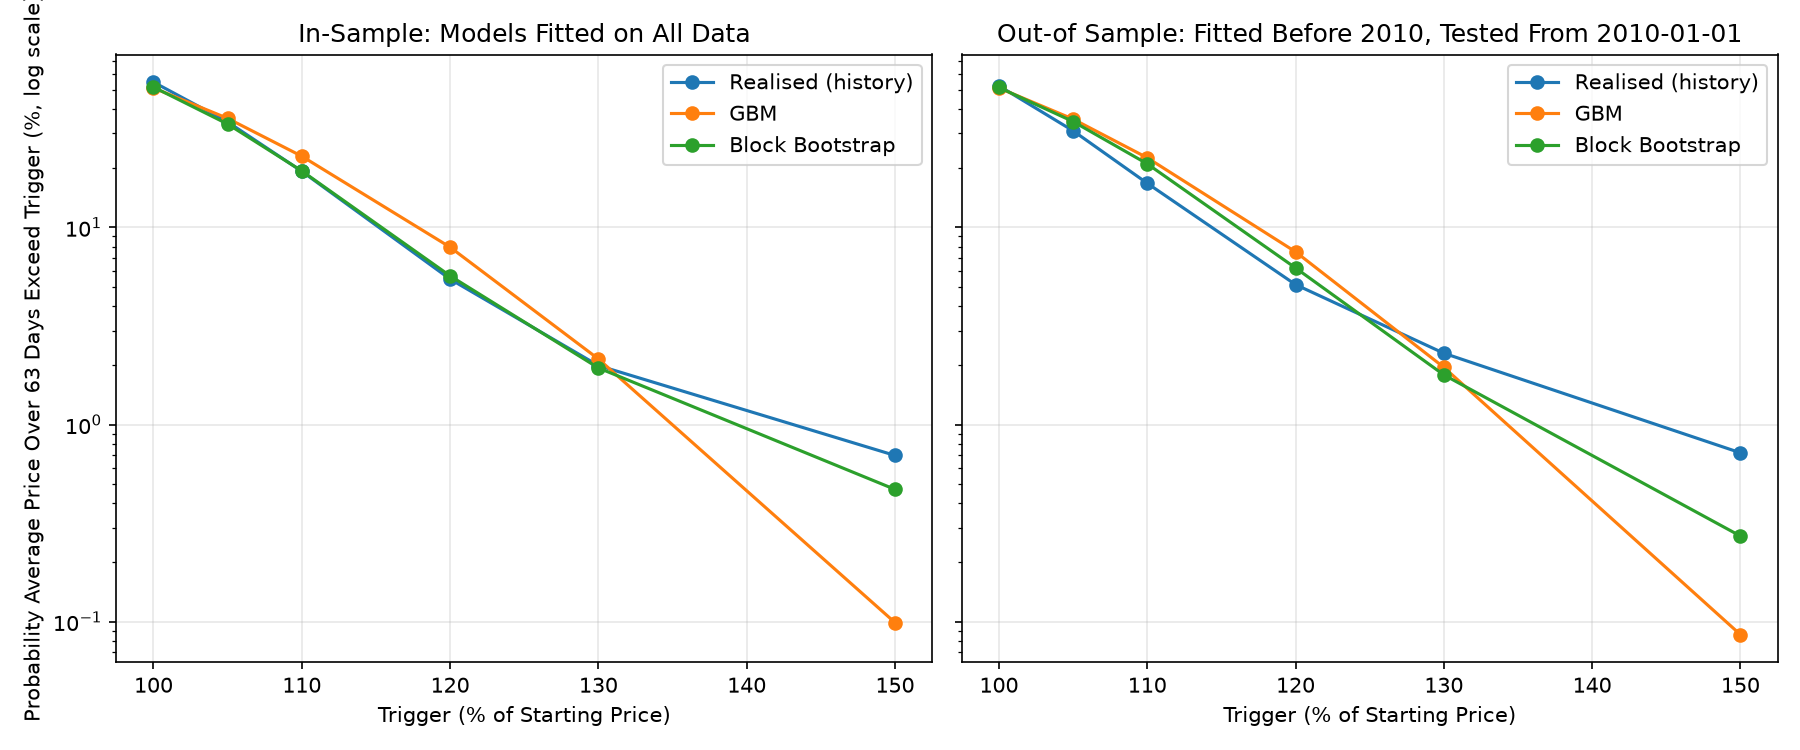
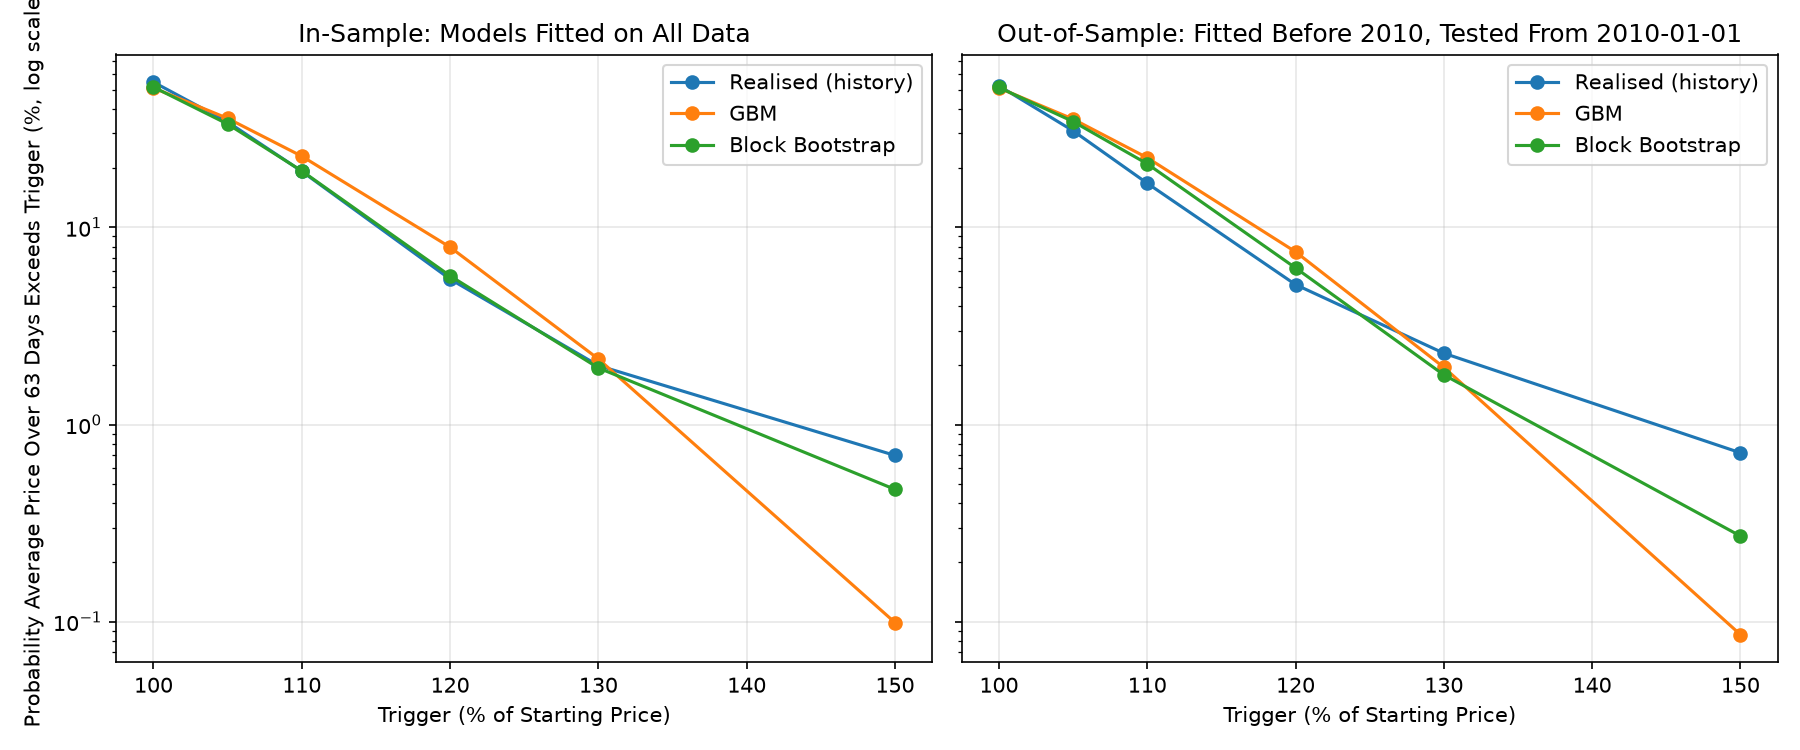
fix: Spelling and code errors as well as fixing naming conventions

diff --git a/scripts/backtest_trigger_breaches.py b/scripts/backtest_trigger_breaches.py
@@ -55,7 +55,7 @@ def compare(setting, fit_returns, start):
         "n_windows": real["n_windows"],
     })
     print(f"\n=== {setting} ===")
-    print(f"Models Fitted with Annualised Volatilty {sigma:.1%}; "
+    print(f"Models Fitted with Annualised Volatility {sigma:.1%}; "
           f"{real['n_windows'].iloc[0]} windows (about {n_eff:.0f} independent)")
     show = table.drop(columns=["setting", "n_windows"]).copy()
     for col in ["realised_prob", "realised_se", "gbm_prob", "block_prob"]:
@@ -65,8 +65,8 @@ def compare(setting, fit_returns, start):
     return table
 
 def crisis_check(setting, start, table):
-    full = realised_window_stats(prices, HORIZON, TRIGGER_FRACTIONS,start=start)
-    excl = realised_window_stats(prices, HORIZON, TRIGGER_FRACTIONS,start=start, exclude=EXCLUDE)
+    full = realised_window_stats(prices, HORIZON, TRIGGER_FRACTIONS, start=start)
+    excl = realised_window_stats(prices, HORIZON, TRIGGER_FRACTIONS, start=start, exclude=EXCLUDE)
     full_total = full["expected_payout_pct"] * full["n_windows"]
     excl_total = excl["expected_payout_pct"] * excl["n_windows"]
     out = pd.DataFrame({
@@ -83,13 +83,15 @@ def crisis_check(setting, start, table):
     print(f"\n=== {setting}: Excluding Windows Starting {EXCLUDE[0]} to {EXCLUDE[1]} ===")
     print(f"{full['n_windows'].iloc[0] - excl['n_windows'].iloc[0]} Windows Removed")
     show = out.drop(columns=["setting", "n_windows_excl"]).copy()
+    show["realised_prob_excl"] = (show["realised_prob_excl"] * 100).round(1)
+    print("Probabilities in %, Payouts as % of the Starting Price")
     print(show.round(2).to_string(index=False))
     return out
 
 in_sample = compare("In-Sample (Models Fitted on All Data, Tested on All Windows)", r, None)
-out_sample = compare(f"Out of Sample (Models Fitted Before {SPLIT_DATE}, Tested from {SPLIT_DATE})", r[r.index < SPLIT_DATE], SPLIT_DATE)
+out_sample = compare(f"Out-of-Sample (Models Fitted Before {SPLIT_DATE}, Tested from {SPLIT_DATE})", r[r.index < SPLIT_DATE], SPLIT_DATE)
 in_crisis = crisis_check("In-Sample", None, in_sample)
-out_crisis = crisis_check("Out of Sample", SPLIT_DATE, out_sample)
+out_crisis = crisis_check("Out-of-Sample", SPLIT_DATE, out_sample)
 
 Path("results").mkdir(exist_ok=True)
 pd.concat([in_sample, out_sample]).round(5).to_csv("results/backtest_trigger_breaches.csv", index=False)
@@ -100,7 +102,7 @@ Path("figures").mkdir(exist_ok=True)
 fig, ax = plt.subplots(1,2, figsize=(12,5), sharey=True)
 for a, table, title in (
     (ax[0], in_sample, "In-Sample: Models Fitted on All Data"),
-    (ax[1], out_sample, f"Out-of Sample: Fitted Before {SPLIT_DATE[:4]}, Tested From {SPLIT_DATE}")
+    (ax[1], out_sample, f"Out-of-Sample: Fitted Before {SPLIT_DATE[:4]}, Tested From {SPLIT_DATE}")
 ):
     for col, label in (("realised_prob", "Realised (history)"), ("gbm_prob", "GBM"), ("block_prob", "Block Bootstrap")):
         a.plot(table["trigger_pct"], (table[col] * 100).replace(0, np.nan), marker="o", label=label)
@@ -109,7 +111,7 @@ for a, table, title in (
     a.set_yscale("log")
     a.grid(alpha=0.3)
     a.legend()
-ax[0].set_ylabel(f"Probability Average Price Over {HORIZON} Days Exceed Trigger (%, log scale)")
+ax[0].set_ylabel(f"Probability Average Price Over {HORIZON} Days Exceeds Trigger (%, log scale)")
 plt.tight_layout()
 plt.savefig("figures/brent_backtest_breach_prob.png", dpi=150)
 #plt.show()

diff --git a/src/energy_risk/simulate.py b/src/energy_risk/simulate.py
@@ -2,10 +2,10 @@ import numpy as np
 
 def simulate_gbm(s0, mu, sigma, days, n_paths, seed=42):   
     rng = np.random.default_rng(seed)                              # makes run reproducible
-    dt =  1 / 252                                                  # one trading day as a fration of a year
+    dt =  1 / 252                                                  # one trading day as a fraction of a year
     z = rng.standard_normal((n_paths, days))                       # grid of independent standard normal draws, one per simulated path 
     steps = (mu - 0.5 * sigma**2 ) * dt + sigma * np.sqrt(dt) * z  # formula applied to every cell giving each days log return
-    return s0 * np.exp(np.cumsum(steps, axis=1))                   # cumsum adds along each row gives ln(S_t / S_0) each day. exp coverts back to price ratios, * s0 gives price paths.
+    return s0 * np.exp(np.cumsum(steps, axis=1))                   # cumsum adds along each row gives ln(S_t / S_0) each day. exp converts back to price ratios, * s0 gives price paths.
     
     # uses geometric Brownian Motion (gbm): price follows dS = μ*S*dt + σ*S*dW 
     # with Ito's lemma dln(S) = (μ - 0.5σ^2)*dt + σdW. 
@@ -27,6 +27,6 @@ def sim_block_bootstrap(s0, returns, days, n_paths, block=21, seed=42):
     starts = rng.integers(0, len(x) - block + 1, size =(n_paths, n_blocks))
     idx = (starts[:, :, None] + np.arange(block)).reshape(n_paths, -1)[:, :days]  
     return s0 * np.exp(np.cumsum(x[idx], axis=1))
- # each path picks random start postitions, takes block consecutive returns from each, joins the blocks and trims to req number of days
- # Use block bootstrap as it resamples runs of consec. days instead of single ones.
- # Ech run keps the calm or turbulent character so volatility clustering survives.
+ # each path picks random start positions, takes block consecutive returns from each, joins the blocks and trims to req number of days
+ # Use block bootstrap as it resamples runs of consecutive days instead of single ones.
+ # Each run keeps the calm or turbulent character so volatility clustering survives.

diff --git a/scripts/compare_gbm_and_bootstrap.py b/scripts/compare_gbm_and_bootstrap.py
@@ -7,8 +7,8 @@ from energy_risk.pricing import price_policy
 from energy_risk.returns import log_returns
 from energy_risk.simulate import simulate_bootstrap, simulate_gbm, sim_block_bootstrap
 
-HORIZON_DAYS = 63
-N_PATHS = 200_000         # 3 months of trading days
+HORIZON_DAYS = 63         # 3 months of trading days
+N_PATHS = 200_000
 SEED = 42
 
 prices = load_brent("data/raw/brent_fred.csv")
@@ -40,10 +40,10 @@ print(f"historical windows: {len(hist_term)} (overlapping, roughly {len(hist_ter
 
 quantile_levels = [0.01, 0.05, 0.25, 0.50, 0.75, 0.95, 0.99]
 print("\n63-day log return quantiles (%):")
-print(f"{'':<12}" + "".join(f"{q:>9.0%}" for q in quantile_levels) + f"{'ex_kurt':>10}") # left /right aligned in a x-char field (row labels)
+print(f"{'':<28}" + "".join(f"{q:>9.0%}" for q in quantile_levels) + f"{'ex_kurt':>10}") # left /right aligned in a x-char field (row labels)
 for name, x in samples.items():
     row = np.quantile(x, quantile_levels)
-    print(f"{name:<12}" + "".join(f"{v:>9.1f}" for v in row) + f"{kurtosis(x):>10.2f}")
+    print(f"{name:<28}" + "".join(f"{v:>9.1f}" for v in row) + f"{kurtosis(x):>10.2f}")
     
 print("\nModel price vs policy price (average-price payout, per barrel):")
 print(f"{'trigger':>10} {'model':>12} {'P(payout)':>12} {'E(payout)':>12}")
@@ -70,8 +70,8 @@ plt.savefig(f"figures/brent_return_block{BLOCK_DAYS}d.png", dpi=150)
 #plt.show()
 
 # Code prints 3 things:
-# Sim settings so can check the starting price and starting price and volatiliity
-# Table of 63-day return quantiles and excess kutosis for historical data, GBM snd Bootstrap and Block Bootstrap
+# Sim settings so can check the starting price and volatility
+# Table of 63-day return quantiles and excess kurtosis for historical data, GBM and Bootstrap and Block Bootstrap
 # Table of breach probability and expected payout per barrel at triggers from 100% to 130% of current price, under each model.
 
 print("\nBlock-length sensitivity (63-day log return quantiles, %):")

diff --git a/src/energy_risk/returns.py b/src/energy_risk/returns.py
@@ -13,13 +13,13 @@ def annual_vol(returns, window=30):
     # volatility is standard deviation (std) of returns - how widely they scatter about the mean : std_daily = ((1 / (n-1)) * SUM [i = 1 to n] {(r_i - mean_r)^2 })^(1/2)
     # over 252 trading days annual volatility = sqrt(252) * daily volatility.  AS Variance  = std^2 so annual Variance = 252 * std^2
     # rolling window computes std over sliding window of latest 30 observations so VOL changes through time so first 29 values are NaN as window isnt full.
-    # Longer window will be smoother but slower compared to a noiser but fast short window.
+    # Longer window will be smoother but slower compared to a noisier but fast short window.
 
 
 def historical_var(returns, level=0.95):
     return -np.quantile(returns, 1-level)
     
-    # VaR is value at risk meaures what loss will be exceded on only 5% of days. It is negative of the (1 - level) quantile of return distribution. - 5% quantile as default.
+    # VaR is value at risk, measures what loss will be exceeded on only 5% of days. It is negative of the (1 - level) quantile of return distribution. - 5% quantile as default.
     # finds the return below which 5% of observations fail e.g. return = -0.03 so code returns 0.03 so 95% of days the loss is below 3% 
     # uses actual past returns instead of distribution but assumes future looks like sampled past.
     # code measures risk for one who loses when price falls but for fuel buying customers they lose when price rises so need to look at upper tail.

diff --git a/tests/test_returns.py b/tests/test_returns.py
@@ -22,7 +22,7 @@ def test_log_returns_add_up_over_time(prices):
     
 def test_annual_vol_uses_sqrt_252_scaling():
     rng = np.random.default_rng(0)                        # rng generator with 0 seed
-    r = pd.Series(rng.normal(0,0.02,200))                 # 200 synthetic runs with normal distrib with mean = 0 and atd = 0.02
+    r = pd.Series(rng.normal(0,0.02,200))                 # 200 synthetic runs with normal distrib with mean = 0 and std = 0.02
     vol = annual_vol(r, window=len(r)).iloc[-1]           # annual vol func over full obs window and takes only the last value
     assert vol == pytest.approx(r.std() * np.sqrt(252))   
     
@@ -30,7 +30,7 @@ def test_annual_vol_uses_sqrt_252_scaling():
 def test_annual_vol_first_window_minus_one_values_are_nan():
     r = pd.Series(np.linspace(-0.01, 0.01, 50))
     vol = annual_vol(r, window=30)
-    assert vol.iloc[:29].isna().all()                       # firat 29 values must be NaN and the rest is not Nan
+    assert vol.iloc[:29].isna().all()                       # first 29 values must be NaN and the rest is not Nan
     assert vol.iloc[29:].notna().all()
 
 def test_historical_var_known_quantile():

diff --git a/scripts/explore_returns_and_volatility.py b/scripts/explore_returns_and_volatility.py
@@ -39,7 +39,7 @@ ax[2].set_xlabel("Date"); ax[2].set_ylabel("Annualised Volatility (%)")
 for a in ax:
     a.grid(alpha=0.3)
 plt.tight_layout()
-plt.savefig("figures/brent_return_tails_log_scale.png", dpi=150)
+plt.savefig("figures/brent_price_returns_and_volatility.png", dpi=150)
 
 plt.close()
 fig2, ax2 = plt.subplots(figsize=(9,4))
@@ -47,7 +47,7 @@ fig2, ax2 = plt.subplots(figsize=(9,4))
 ax2.set_title("Daily Log Returns - Full Range")
 ax2.set_xlabel("Daily Log Return (%)"); ax2.set_ylabel("Number of Trading Days (log)")
 plt.tight_layout()
-plt.savefig("figures/full_log_returns.png", dpi=150)
+plt.savefig("figures/brent_return_tails_log_scale.png", dpi=150)
 
 # --------------data check on the extreme values -------------------
 
@@ -63,7 +63,7 @@ windows = {
     "Full history": r,
     "Last 5 years (from 1 Oct 2021)": r[r.index >= "2021-10-01"],
     "Last 1 year (from 1 Oct 2025)" : r[r.index >= "2025-10-01"],
-    "Full year excluding March - May 2020": r[~mask],
+    "Full history excluding Mar-May 2020": r[~mask],
 }
 
 for name, x in windows.items():

diff --git a/scripts/pricing_sensitivity_analysis.py b/scripts/pricing_sensitivity_analysis.py
@@ -11,7 +11,7 @@ from energy_risk.simulate import sim_block_bootstrap, simulate_gbm
 
 TERMS = (21, 63, 126)                      # 1, 3 and 6 months of trading days
 TRIGGER_FRACTIONS = (1.00, 1.05, 1.1, 1.2, 1.3, 1.5)
-N_PATHS = 100_000                           # Use 50_000 instead of 100,000 due if low laptop memory
+N_PATHS = 100_000                           # Use 50_000 if laptop memory is low
 LOADING = 0.20                             # This is an assumed margin, not a market figure
 BLOCK_DAYS = 21
 SEED = 42
@@ -39,7 +39,7 @@ for case, sigma in vol_cases.items():
     tables.append(sweep_policy_prices(paths, s0, TRIGGER_FRACTIONS, TERMS, LOADING, model = label))
     del paths
 
-paths = sim_block_bootstrap(s0, r0, days = MAX_TERM, n_paths=N_PATHS, seed = SEED) 
+paths = sim_block_bootstrap(s0, r0, days=MAX_TERM, n_paths=N_PATHS, block=BLOCK_DAYS, seed=SEED) 
 label = f"Block bootstrap ({BLOCK_DAYS}d)"
 tables.append(sweep_policy_prices(paths, s0, TRIGGER_FRACTIONS, TERMS, LOADING, model = label))
 del paths

diff --git a/src/energy_risk/data.py b/src/energy_risk/data.py
@@ -2,9 +2,9 @@ import pandas as pd
 
 def load_brent(path):
     df = pd.read_csv(path) # loads, reads and parses csv file (this line and below)
-    df.columns = ["Date", "Price"]   # for datahub file, for fred file: obsevation_date , DCOILBRENTEU
+    df.columns = ["Date", "Price"]   # for datahub file, for fred file: observation_date , DCOILBRENTEU
     df["Date"] = pd.to_datetime(df["Date"])
     df["Price"] = pd.to_numeric(df["Price"], errors="coerce")  # blanks turn to Nan (Not a number)
     return df.dropna().set_index("Date").sort_index()["Price"] 
-    # ^ removes rows with nan vales then converts date column to a row index (Dataframe) 
+    # ^ removes rows with NaN values then converts date column to a row index (Dataframe) 
     # then orders them from earliest to latest then extracts the price column from these cleaned and indexed rows then returns it as pandas series

diff --git a/src/energy_risk/pricing.py b/src/energy_risk/pricing.py
@@ -7,7 +7,7 @@ def trigger_payout(paths, trigger, notional=1.0):
 def price_policy(paths, trigger, loading=0.2): 
     payouts = trigger_payout(paths, trigger)
     return {
-        "prob_trigger" : (payouts > 0).mean(),        # fracton of paths with payout, proportion of true values
+        "prob_trigger" : (payouts > 0).mean(),        # fraction of paths with payout, proportion of true values
         "expected_payout" : payouts.mean(),           # Monte-Carlo estimate of expected payout, 'fair' premium before margin, ignores discounting and risk-neutral pricing (simplification)
         "premium": payouts.mean() * (1 + loading),    # loading is assumed margin 20% made up number.
         "payout_95pct" : np.quantile(payouts, 0.95),   # size of bad outcome, relates to how much capital a seller would need to hold.

diff --git a/tests/test_simulate.py b/tests/test_simulate.py
@@ -22,7 +22,7 @@ def test_gbm_zero_vol_is_deterministic_drift():
     mu, days = 0.05, 30
     paths = simulate_gbm(100,mu, 0.0, days, n_paths=5)
     expected = 100 * np.exp(mu * np.arange(1, days + 1) / 252) 
-    assert np.allclose(paths, expected)                         # tests if path calc (zero volatility) is close to the expected vlaue
+    assert np.allclose(paths, expected)                         # tests if path calc (zero volatility) is close to the expected value
     
 def test_gbm_with_zero_drift_keeps_mean_price_constant():
     paths = simulate_gbm(100, 0.0, 0.4, days=252, n_paths=200_000)

diff --git a/tests/test_sensitivity.py b/tests/test_sensitivity.py
@@ -22,7 +22,7 @@ def test_sweep_payout_falls_as_trigger_rises():
     
 def test_sweep_uses_only_the_first_term_days():
     paths = np.hstack([np.full((10, 5), 100.0), np.full((10,5), 200.0)])
-    table = sweep_policy_prices(paths, 100.0, [1,0], [5, 10])
+    table = sweep_policy_prices(paths, 100.0, [1.0], [5, 10])
     short = table[table["term_days"] == 5 ].iloc[0]
     long = table[table["term_days"] == 10 ].iloc[0]
     assert short["expected_payout"] == pytest.approx(0.0)

diff --git a/README.md b/README.md
@@ -11,6 +11,22 @@ This is an educational project and not a production pricing model.
 How likely is a given energy price trigger to be breached, and what is the
 expected payout of a policy that pays the excess above it?
 
+The policy pays `max(A - K, 0)` per barrel, where `A` is the average daily
+Brent price over the policy term and `K` is the trigger, set as a percentage
+of the price on the start date.
+
+## Summary
+
+- A 63-day policy with a trigger at 110% of today's price (125.36 USD) has an
+  expected payout of 2.00 USD per barrel under the central model (21-day block
+  bootstrap), or a premium of 2.40 USD with an assumed 20% loading.
+- The volatility assumption moves the price more than the choice of model:
+  the expected payout ranges from 1.81 to 5.02 USD across the cases tested.
+- In a backtest against history, both models' breach probabilities are within
+  about 1.3 standard errors of what happened. Out of sample, realised payouts
+  above a 120% trigger exceed both models, but most of that gap comes from
+  windows starting in March-June 2020.
+
 ## Data
 
 - Series: Europe Brent Spot Price FOB, daily, USD per barrel (FRED: DCOILBRENTEU, from the US EIA).
@@ -30,6 +46,7 @@ expected payout of a policy that pays the excess above it?
 python -m venv .venv
 .venv\Scripts\activate
 python -m pip install -e .
+python -m pip install -r requirements.txt   # optional: the exact versions used
 ```
 
 ## Run
@@ -45,24 +62,24 @@ and result tables to `results/`.
 
 ## Project structure
 
-```bash
-src/energy_risk/     # Primary Mathematical Functions
+```text
+src/energy_risk/     # core functions: data, returns, simulate, pricing, sensitivity, backtest
 scripts/             # runnable analysis scripts
-tests/               # pytest Suite
-data/raw/            # Source CSVs
-results/             # Output Tables (CSV)
-figures/             # Saved Plots
-.github/workflows/   # Automated Tests
+tests/               # pytest suite
+data/raw/            # source CSVs
+results/             # output tables (CSV)
+figures/             # saved plots
+.github/workflows/   # automated tests
 ```
 
 ## Testing
 
-`python -m pytest -v` runs 39 tests covering data loading, returns, volatility, VaR,
+`python -m pytest -v` runs 40 tests covering data loading, returns, volatility, VaR,
 the GBM and bootstrap simulators, pricing functions, sensitivity sweep and the backtest. Checks include hand
 calculations, reproducibility with fixed seeds, and a comparison of the Monte Carlo
 call price with the Black-Scholes formula (agreement within 4 standard errors).
 
-## Exploratory Results
+## Exploratory results
 
 - Daily log returns: std 2.69%, skew -1.53, excess kurtosis 53.7 (very fat tails).
 - Historical 95% daily VaR: 3.79% (downside), 3.70% (upside).
@@ -79,12 +96,14 @@ call price with the Black-Scholes formula (agreement within 4 standard errors).
 
 Each sits inside a coherent run of prices, so all are kept in the data.
 
-## Simulation Comparison
+## Simulation comparison
 
 Three-month (63 trading day) horizon from the latest price (113.96 USD/bbl).
 Real returns are demeaned, GBM uses the same volatility (42.8%) and a drift that
 makes its log returns zero-mean, so the models differ only in distribution shape.
-Historical windows are overlapping (about 143 independent).
+Historical windows are overlapping (about 143 independent). This section uses
+200,000 paths per model and the final results use 100,000, so payouts can differ
+slightly in the second decimal place; the final results supersede these tables.
 
 | 63-day log return (%) | 1%    | 5%    | 25%   | 50%  | 75%  | 95%  | 99%  | Excess kurtosis |
 | --------------------- | ----- | ----- | ----- | ---- | ---- | ---- | ---- | --------------- |
@@ -109,7 +128,7 @@ Expected payout per barrel of an average-price policy (before any loading):
 
 Model differences are small up to a 120% trigger and larger far out in the tail.
 
-### Volatility by Window
+### Volatility by window
 
 Annualised using sqrt(252) scaling.
 
@@ -123,6 +142,8 @@ Annualised using sqrt(252) scaling.
 Mar-May 2020 is under 1% of the days but adds about 4 percentage points to
 full-history volatility. The last year is a markedly higher-volatility regime,
 so pricing results will be shown for low, base and high volatility cases.
+
+![Brent price, daily returns and rolling volatility](figures/brent_price_returns_and_volatility.png)
 
 ### Block bootstrap
 
@@ -147,7 +168,7 @@ Expected payout per barrel (breach probability), average-price policy, before lo
 | 136.75 (120%) | 0.67 (7.8%)  | 0.64 (6.9%)  | 0.65 (5.9%)  | 0.74 (5.7%)  | 0.84 (5.0%)  |
 | 148.15 (130%) | 0.16 (2.1%)  | 0.19 (1.9%)  | 0.27 (1.8%)  | 0.36 (1.9%)  | 0.50 (1.8%)  |
 
-At the money the models agree within about 4–11%. Far out of the money the
+At the money the models agree within about 4-11%. Far out of the money the
 expected payout varies two- to threefold, because fat tails make breaches rare
 but large. Results are reported as a model range, with the 21-day block
 bootstrap as the central case.
@@ -312,7 +333,7 @@ read as likely understated if a 2020-style episode is plausible over the term.
 
 ![Backtest breach probabilities](figures/brent_backtest_breach_prob.png)
 
-## Future Work
+## Future work
 
 1. **Conditional volatility.** Fit a GARCH(1,1) or GJR-GARCH model with
    Student-t innovations, started from today's volatility state, so the
